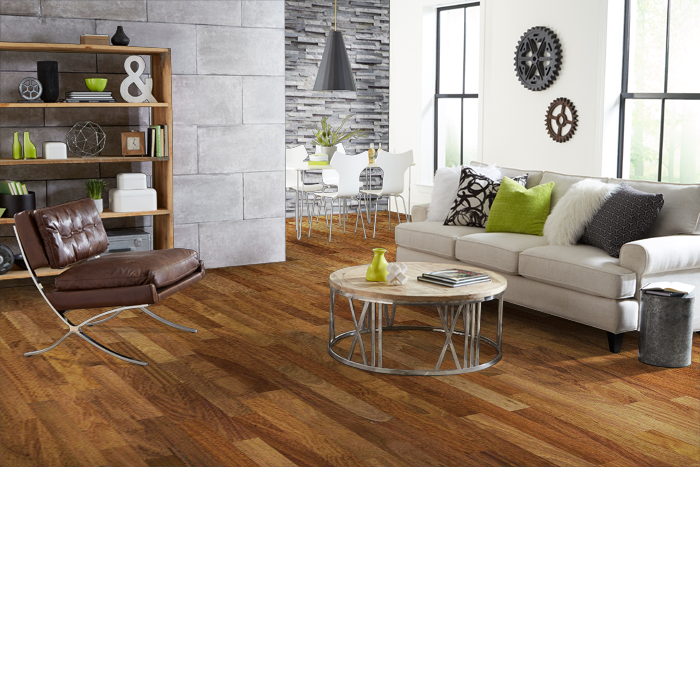
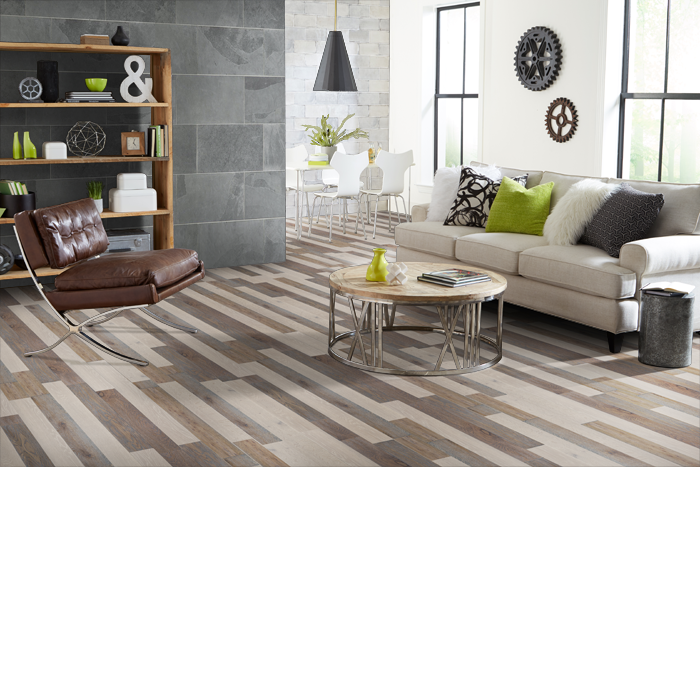
living room modifications

diff --git a/index.html b/index.html
@@ -81,18 +81,18 @@
                             <div id="back_wall" class="tab-pane fade">
                                 <br>
                                 <div class="options-container">
-                                    <div data-target="o1" data-color="1" class="item-color-option">
+                                    <!-- <div data-target="o1" data-color="1" class="item-color-option">
                                         <img src="public/images/back_wall/new_tiles/1_dark_black.png">
                                     </div>
                                     
                                     <div data-target="o1" data-color="2" class="item-color-option">
                                         <img src="public/images/back_wall/new_tiles/2_dark_gold.png">
-                                    </div>
+                                    </div> -->
                                     
                                     <div data-target="o1" data-color="3" class="item-color-option">
                                         <img src="public/images/back_wall/new_tiles/3_dark_white.png">
                                     </div>
-                                    <div data-target="o1" data-color="4" class="item-color-option">
+                                    <!-- <div data-target="o1" data-color="4" class="item-color-option">
                                         <img src="public/images/back_wall/new_tiles/4_light_black.png">
                                     </div>
                                     <div data-target="o1" data-color="5" class="item-color-option">
@@ -100,25 +100,29 @@
                                     </div>
                                     <div data-target="o1" data-color="6" class="item-color-option">
                                         <img src="public/images/back_wall/new_tiles/6_light_white.png">
-                                    </div>
-                                    <div data-target="o1" data-color="7" class="item-color-option">
+                                    </div> -->
+                                    <!-- <div data-target="o1" data-color="7" class="item-color-option">
                                         <img src="public/images/back_wall/new_tiles/7_original_black.png">
-                                    </div>
-                                    <div data-target="o1" data-color="8" class="item-color-option">
+                                    </div> -->
+                                    <!-- <div data-target="o1" data-color="8" class="item-color-option">
                                         <img src="public/images/back_wall/new_tiles/8_original_gold.png">
-                                    </div>
+                                    </div> -->
                                     <div data-target="o1" data-color="9" class="item-color-option">
                                         <img src="public/images/back_wall/new_tiles/9_original_white.png">
                                     </div>
-                                    <div data-target="o1" data-color="10" class="item-color-option">
+                                    <!-- <div data-target="o1" data-color="10" class="item-color-option">
                                         <img src="public/images/back_wall/original_tiles/10_black_black.png">
-                                    </div>
-                                    <div data-target="o1" data-color="11" class="item-color-option">
+                                    </div> -->
+                                    <!-- <div data-target="o1" data-color="11" class="item-color-option">
                                         <img src="public/images/back_wall/original_tiles/11_black_gold.png">
-                                    </div>
-                                    <div data-target="o1" data-color="12" class="item-color-option">
+                                    </div> -->
+                                    <!-- <div data-target="o1" data-color="12" class="item-color-option">
                                         <img src="public/images/back_wall/original_tiles/12_black_white.png">
+                                    </div> -->
+                                    <div data-target="o1" data-color="18" class="item-color-option">
+                                        <img src="public/images/back_wall/original_tiles/18_original_stone.png">
                                     </div>
+
                                     <div data-target="o1" data-color="13" class="item-color-option">
                                         <img src="public/images/back_wall/original_tiles/13_dark_black.png">
                                     </div>
@@ -134,10 +138,8 @@
                                     <div data-target="o1" data-color="17" class="item-color-option">
                                         <img src="public/images/back_wall/original_tiles/17_original_gold.png">
                                     </div>
-                                    <div data-target="o1" data-color="18" class="item-color-option active">
-                                        <img src="public/images/back_wall/original_tiles/18_original_stone.png">
-                                    </div>
-                                    <div data-target="o1" data-color="19" class="item-color-option">
+                                    
+                                    <div data-target="o1" data-color="19" class="item-color-option active">
                                         <img src="public/images/back_wall/original_tiles/19_original_white.png">
                                     </div>
                                 </div>
@@ -147,32 +149,32 @@
                             <div id="flooring" class="tab-pane fade">
                                 <br>
                                 <div class="options-container">
-                                    <div data-target="o2" data-color="1" class="item-color-option">
+                                    <div data-target="o2" data-color="1" class="item-color-option active">
                                         <img src="public/images/floor/floor_1.png">
                                     </div>
-                                
+<!--                                 
                                     <div data-target="o2" data-color="2" class="item-color-option">
                                         <img src="public/images/floor/floor_1_1.png">
                                     </div>
-                                
-                                    <div data-target="o2" data-color="3" class="item-color-option">
+                                 -->
+                                    <!-- <div data-target="o2" data-color="3" class="item-color-option">
                                         <img src="public/images/floor/floor_2.png">
-                                    </div>
+                                    </div> -->
                                     <div data-target="o2" data-color="4" class="item-color-option">
                                         <img src="public/images/floor/floor_2_1.png">
                                     </div>
                                     <div data-target="o2" data-color="5" class="item-color-option">
                                         <img src="public/images/floor/floor_3.png">
                                     </div>
-                                    <div data-target="o2" data-color="6" class="item-color-option">
+                                    <!-- <div data-target="o2" data-color="6" class="item-color-option">
                                         <img src="public/images/floor/floor_3_1.png">
-                                    </div>
+                                    </div> -->
                                     <div data-target="o2" data-color="7" class="item-color-option">
                                         <img src="public/images/floor/floor_4.png">
                                     </div>
-                                    <div data-target="o2" data-color="8" class="item-color-option active">
+                                    <!-- <div data-target="o2" data-color="8" class="item-color-option active">
                                         <img src="public/images/floor/floor_4_1.png">
-                                    </div>
+                                    </div> -->
                                 </div>
                             </div>
 
@@ -190,19 +192,25 @@
                                     <div data-target="o3" data-color="3" class="item-color-option">
                                         <img src="public/images/front_wall/3_dark_white.png" title="dark white">
                                     </div>
-                                    <div data-target="o3" data-color="4" class="item-color-option active">
+                                    <div data-target="o3" data-color="11" class="item-color-option">
+                                        <img src="public/images/front_wall/original/11_original_dark.png">
+                                    </div>
+                                    <div data-target="o3" data-color="4" class="item-color-option">
                                         <img src="public/images/front_wall/4_light_black.png" title="light black">
                                     </div>
+
                                     <div data-target="o3" data-color="5" class="item-color-option">
                                         <img src="public/images/front_wall/5_light_gold.png" title="light gold">
                                     </div>
                                     <div data-target="o3" data-color="6" class="item-color-option">
                                         <img src="public/images/front_wall/6_light_white.png" title="light white">
                                     </div>
-                                    <div data-target="o3" data-color="7" class="item-color-option">
-                                        <img src="public/images/front_wall/new_tiles/7_wall1.png">
+                                    <div data-target="o3" data-color="12" class="item-color-option">
+                                        <img src="public/images/front_wall/original/12_original_light.png">
                                     </div>
-                                    <div data-target="o3" data-color="8" class="item-color-option">
+                                 
+                                   
+                                    <!-- <div data-target="o3" data-color="8" class="item-color-option">
                                         <img src="public/images/front_wall/new_tiles/8_wall2.png">
                                     </div>
                                     <div data-target="o3" data-color="9" class="item-color-option">
@@ -210,17 +218,9 @@
                                     </div>                                    
                                     <div data-target="o3" data-color="10" class="item-color-option">
                                         <img src="public/images/front_wall/new_tiles/10_wall3.png">
-                                    </div>                                    
-                                    <div data-target="o3" data-color="11" class="item-color-option">
-                                        <img src="public/images/front_wall/original/11_original_dark.png">
-                                    </div>
-                                    <div data-target="o3" data-color="12" class="item-color-option">
-                                        <img src="public/images/front_wall/original/12_original_light.png">
-                                    </div>
-                                    
-                                    <div data-target="o3" data-color="13" class="item-color-option">
-                                        <img src="public/images/front_wall/original/13_original_stone.png">
-                                    </div>
+                                    </div>                                     -->
+                                   
+                                  
                                     <div data-target="o3" data-color="14" class="item-color-option">
                                         <img src="public/images/front_wall/original_wall/14_black.png">
                                     </div>
@@ -230,6 +230,12 @@
                                     
                                     <div data-target="o3" data-color="16" class="item-color-option">
                                         <img src="public/images/front_wall/original_wall/16_white.png">
+                                    </div>
+                                    <div data-target="o3" data-color="7" class="item-color-option active">
+                                        <img src="public/images/front_wall/new_tiles/7_wall1.png">
+                                    </div>
+                                    <div data-target="o3" data-color="13" class="item-color-option">
+                                        <img src="public/images/front_wall/original/13_original_stone.png">
                                     </div>
                                     
                                  

diff --git a/README.md b/README.md
@@ -1,1 +1,1 @@
-# Leather Shoes Demo
+# Living Room Demo
